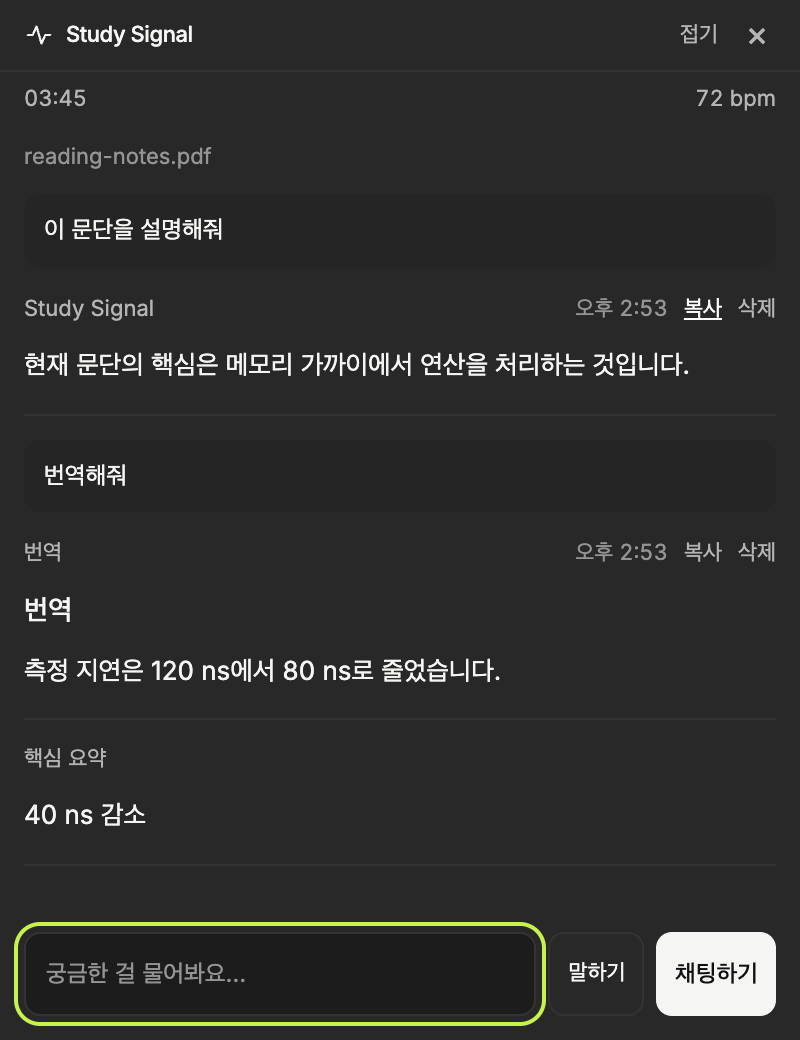
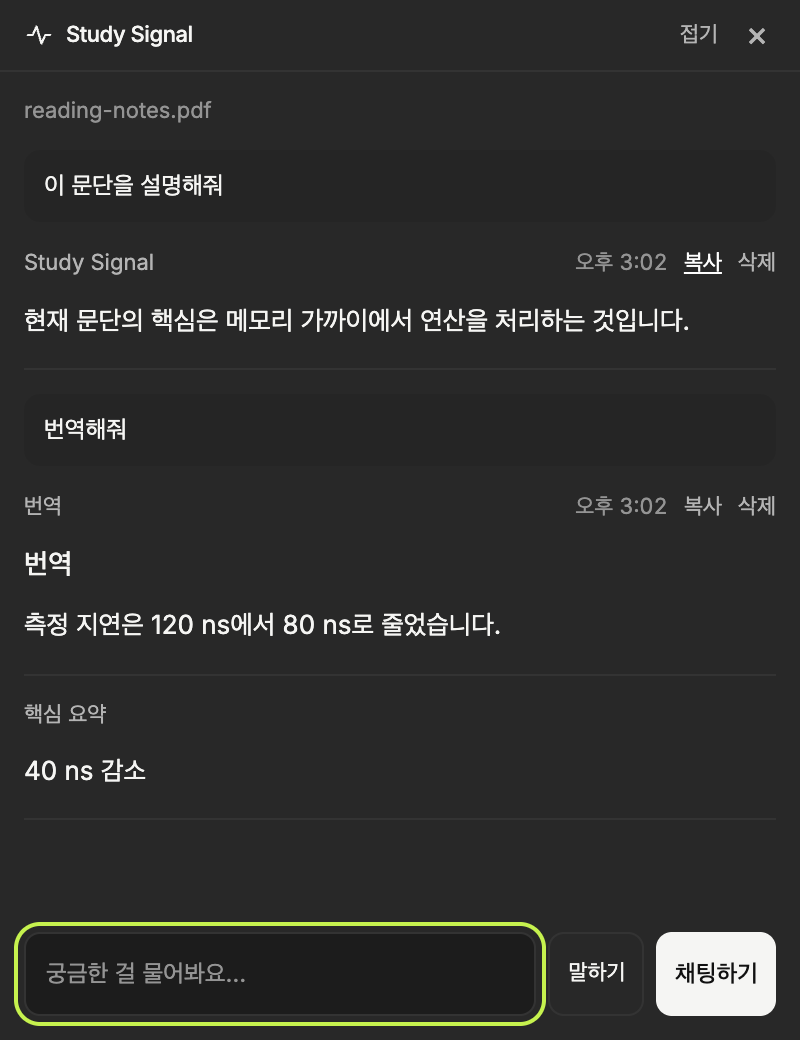
fix: show gaze status beside study clock and remove chat metrics

diff --git a/overlay/index.html b/overlay/index.html
@@ -2,9 +2,9 @@
 <html lang="ko"><head><meta charset="utf-8"><meta name="viewport" content="width=device-width,initial-scale=1">
 <meta http-equiv="Content-Security-Policy" content="default-src 'self'; script-src 'self' 'wasm-unsafe-eval'; style-src 'self'; font-src 'self'; img-src 'self' data: blob:; media-src 'self' blob:; connect-src 'self'; object-src 'none'; base-uri 'none'; form-action 'none'">
 <title>Study Signal</title><link rel="stylesheet" href="study-theme.css"><link rel="stylesheet" href="study.css"><link rel="stylesheet" href="study-select.css"></head><body>
-<header class="drag"><div class="brand"><svg viewBox="0 0 24 24" aria-hidden="true"><path d="M3 12h4l3-7 4 14 3-7h4"/></svg>Study Signal</div><span id="voice-indicator" hidden aria-live="polite">● 녹음 중</span><div class="mini-metrics"><span id="mini-clock">00:00</span><span id="mini-heart">— bpm</span></div><div class="window-controls"><button id="collapse" aria-label="접기 또는 펼치기">−</button><button id="close" aria-label="메뉴 막대로 숨기기">×</button></div></header>
+<header class="drag"><div class="brand"><svg viewBox="0 0 24 24" aria-hidden="true"><path d="M3 12h4l3-7 4 14 3-7h4"/></svg>Study Signal</div><span id="voice-indicator" hidden aria-live="polite">● 녹음 중</span><div class="mini-metrics"><span id="mini-clock">00:00</span><span id="mini-heart">— bpm</span><span id="mini-focus" class="focus-status" data-state="paused" aria-live="polite">학습 시작 대기</span></div><div class="window-controls"><button id="collapse" aria-label="접기 또는 펼치기">−</button><button id="close" aria-label="메뉴 막대로 숨기기">×</button></div></header>
 <main>
-<section class="session-top"><div><p id="timer-label">오늘의 학습</p><div class="session-metrics"><strong id="timer">00:00</strong><span id="session-heart" aria-label="실시간 심박수">— <small>bpm</small></span></div><span id="goal-display">작은 목표부터 시작해요</span></div><select id="minutes" aria-label="목표 학습 시간"><option value="20">20분</option><option value="30">30분</option><option value="45">45분</option></select></section>
+<section class="session-top"><div><p id="timer-label">오늘의 학습</p><div class="session-metrics"><strong id="timer">00:00</strong><div class="session-signals"><span id="session-heart" aria-label="실시간 심박수">— <small>bpm</small></span><span id="session-focus" class="focus-status" data-state="paused" aria-live="polite">학습 시작 대기</span></div></div><span id="goal-display">작은 목표부터 시작해요</span></div><select id="minutes" aria-label="목표 학습 시간"><option value="20">20분</option><option value="30">30분</option><option value="45">45분</option></select></section>
 <div id="study-view">
 <section id="setup" class="setup"><h1>공부할 자료를 준비해요</h1><label for="goal">오늘의 목표</label><input id="goal" placeholder="예: 읽은 내용을 내 말로 설명하기" maxlength="1000"><div class="material-label"><label>학습 자료</label><button id="material-add" type="button" class="link">파일 추가</button></div><ul id="material-list" class="material-list"></ul><p id="material-note" class="helper"></p><details id="material-text-settings"><summary>텍스트 직접 넣기</summary><textarea id="material" rows="4" aria-label="학습 자료 텍스트" placeholder="필요한 내용을 붙여넣어도 돼요."></textarea></details><button id="start" class="primary" disabled>앱 준비 중…</button><p class="helper">궁금할 땐 말하기를 누르고, 다 말하면 보내기를 눌러주세요.</p></section>
 <section id="focus-panel" class="focus-panel" aria-live="polite" data-state="unknown" hidden><div class="focus-heading"><span class="focus-light" aria-hidden="true"></span><strong id="focus-state">감지 준비 중</strong><button id="camera-toggle" class="link">감지 켜기</button></div><p id="focus-evidence">카메라로 화면 응시·이탈 방향을 확인해요.</p><span class="sr-only" id="gaze-label">카메라 꺼짐</span><i id="camera-dot" hidden></i><div id="focus-notice" hidden><p id="nag-text">시선이 화면 밖을 향하고 있어요.</p><button id="focus-grace">생각·필기 중 · 1분 유예</button><button id="focus-correction">오탐이야</button></div></section>

diff --git a/overlay/scratchpad.html b/overlay/scratchpad.html
@@ -1,1 +1,1 @@
-<!doctype html><html lang="ko"><head><meta charset="utf-8"><meta name="viewport" content="width=device-width,initial-scale=1"><meta http-equiv="Content-Security-Policy" content="default-src 'self'; script-src 'self'; style-src 'self'; font-src 'self'; img-src 'self'; object-src 'none'; base-uri 'none'; form-action 'none'"><title>Study Signal · 채팅</title><link rel="stylesheet" href="study-theme.css"><link rel="stylesheet" href="scratchpad.css"></head><body data-expanded="false"><header class="drag"><div class="brand"><svg viewBox="0 0 24 24" aria-hidden="true"><path d="M3 12h4l3-7 4 14 3-7h4"/></svg>Study Signal</div><div class="window-controls"><button id="toggle" hidden aria-label="대화 펼치기" aria-expanded="false">대화</button><button id="close" aria-label="채팅 숨기기">×</button></div></header><div class="chat-metrics" aria-label="학습 시간과 심박수"><span id="chat-clock">00:00</span><span id="chat-heart">— bpm</span></div><main class="pad"><section id="conversation" hidden><p id="study-context"></p><div id="entries" class="entries" aria-live="polite"></div><p id="empty" hidden>질문하면 여기에 답변이 나타나요.</p></section><form id="composer" class="pad-composer"><label for="draft" class="sr-only">질문 입력</label><textarea id="draft" rows="1" placeholder="궁금한 걸 물어봐요…" maxlength="4000"></textarea><button id="voice-question" type="button" aria-label="음성으로 질문">말하기</button><button id="add" type="submit" class="primary">채팅하기</button></form><p id="error" class="error" role="alert" hidden></p></main><script type="module" src="scratchpad.mjs"></script></body></html>
+<!doctype html><html lang="ko"><head><meta charset="utf-8"><meta name="viewport" content="width=device-width,initial-scale=1"><meta http-equiv="Content-Security-Policy" content="default-src 'self'; script-src 'self'; style-src 'self'; font-src 'self'; img-src 'self'; object-src 'none'; base-uri 'none'; form-action 'none'"><title>Study Signal · 채팅</title><link rel="stylesheet" href="study-theme.css"><link rel="stylesheet" href="scratchpad.css"></head><body data-expanded="false"><header class="drag"><div class="brand"><svg viewBox="0 0 24 24" aria-hidden="true"><path d="M3 12h4l3-7 4 14 3-7h4"/></svg>Study Signal</div><div class="window-controls"><button id="toggle" hidden aria-label="대화 펼치기" aria-expanded="false">대화</button><button id="close" aria-label="채팅 숨기기">×</button></div></header><main class="pad"><section id="conversation" hidden><p id="study-context"></p><div id="entries" class="entries" aria-live="polite"></div><p id="empty" hidden>질문하면 여기에 답변이 나타나요.</p></section><form id="composer" class="pad-composer"><label for="draft" class="sr-only">질문 입력</label><textarea id="draft" rows="1" placeholder="궁금한 걸 물어봐요…" maxlength="4000"></textarea><button id="voice-question" type="button" aria-label="음성으로 질문">말하기</button><button id="add" type="submit" class="primary">채팅하기</button></form><p id="error" class="error" role="alert" hidden></p></main><script type="module" src="scratchpad.mjs"></script></body></html>

diff --git a/overlay/scratchpad.css b/overlay/scratchpad.css
@@ -1,3 +1,3 @@
 body{display:flex;flex-direction:column}.drag{height:36px;flex:none;padding:0 9px 0 12px}.brand{font-size:11px;gap:6px}.brand svg{width:15px;height:15px}.window-controls{align-items:center}.window-controls button{font-size:17px;width:25px;height:25px}#toggle{width:auto;padding:0 7px;font-size:11px;border-radius:6px}.pad{display:flex;flex:1;min-height:0;flex-direction:column;padding:10px 12px 12px}#conversation{display:flex;flex:1;min-height:0;flex-direction:column}#study-context{font-size:11px;color:var(--faint);padding:1px 0 10px;white-space:nowrap;overflow:hidden;text-overflow:ellipsis}.entries{overflow:auto;flex:1;min-height:0;scrollbar-width:thin;scrollbar-color:#444 transparent}.entry{padding:12px 0;border-bottom:1px solid var(--line)}.entry:first-child{padding-top:0}.question{margin-bottom:12px;padding:8px 10px;border-radius:8px;background:var(--raised);font-size:12px;line-height:1.7;white-space:pre-wrap;overflow-wrap:anywhere}.entry-head{display:flex;align-items:center;gap:8px;margin-bottom:8px;font-size:11px;color:var(--faint)}.tag{color:var(--muted)}.entry-head time{margin-left:auto;font-variant-numeric:tabular-nums}.entry-head button{font-size:11px;color:var(--muted);padding:0}.entry-head button:hover{text-decoration:underline}.entry h2{font-size:14px;margin-bottom:8px}.body,.summary{white-space:pre-wrap;overflow-wrap:anywhere;font-size:13px;line-height:1.8}.summary{border-top:1px solid var(--line);padding-top:10px;margin-top:12px}.summary-label{display:block;font-size:11px;color:var(--muted);margin-bottom:6px}.source{font-size:11px;line-height:1.65;color:var(--faint);margin-top:10px}.entry.pending .body{color:var(--muted)}.entry.error .body,.error{color:var(--error)}.pad-composer{display:flex;align-items:flex-end;gap:8px;flex:none;margin:0}body[data-expanded=true] .pad-composer{padding-top:12px}textarea{font:inherit;font-size:12px;line-height:1.6;background:var(--surface);border:1px solid var(--line);border-radius:8px;color:var(--ink);resize:none;min-height:42px;max-height:96px;height:42px;min-width:0;flex:1;width:100%;padding:10px}textarea::placeholder{color:var(--faint)}#add{height:42px;padding:0 12px;border-radius:8px;font-size:12px;white-space:nowrap;flex:none}.error{font-size:11px;line-height:1.6;margin-top:8px;overflow-wrap:anywhere}.sr-only{position:absolute;width:1px;height:1px;overflow:hidden;clip:rect(0,0,0,0)}@media(prefers-reduced-motion:no-preference){button{transition:background .15s,transform .15s}button:active{transform:translateY(1px)}}
 
-.chat-metrics{display:flex;justify-content:space-between;gap:12px;padding:5px 12px 0;font-size:11px;font-variant-numeric:tabular-nums;color:var(--muted)}#voice-question{height:42px;min-width:48px;border:1px solid var(--line);border-radius:8px;padding:0 8px;font-size:11px;white-space:nowrap;flex:none}.pad-composer{gap:6px}#add{padding:0 9px}#voice-question:disabled{opacity:.55}
+#voice-question{height:42px;min-width:48px;border:1px solid var(--line);border-radius:8px;padding:0 8px;font-size:11px;white-space:nowrap;flex:none}.pad-composer{gap:6px}#add{padding:0 9px}#voice-question:disabled{opacity:.55}

diff --git a/overlay/study.css b/overlay/study.css
@@ -25,3 +25,6 @@
 .session-metrics{display:flex;align-items:center;gap:18px}.session-metrics #session-heart{font-size:18px;font-weight:400;color:var(--muted);font-variant-numeric:tabular-nums}.mini-metrics{display:flex;align-items:center;gap:12px}#mini-heart{display:none;font-size:12px;color:var(--muted);font-variant-numeric:tabular-nums}body.collapsed #mini-heart{display:block}#voice-talk{margin-top:12px;min-width:116px}#voice-talk:not(:disabled){white-space:nowrap}
 
 body.collapsed .drag{padding:0 8px;gap:6px}body.collapsed .brand{font-size:11px;gap:4px}body.collapsed .brand svg{width:16px;height:16px}body.collapsed .window-controls button{width:24px;height:28px}body.collapsed .mini-metrics{gap:7px}body.collapsed #mini-clock{font-size:15px}body.collapsed #mini-heart{font-size:10px}body.collapsed #voice-indicator{font-size:9px;white-space:nowrap}
+
+/* Status stays with the study clock and pulse, including the compact bar. */
+.session-top>div{min-width:0}.session-top>.study-select{flex:none}.session-metrics{gap:14px;flex-wrap:wrap}.session-signals{display:flex;flex-direction:column;align-items:flex-start;gap:4px}.focus-status{display:inline-flex;align-items:center;gap:5px;white-space:nowrap;font-size:11px;line-height:1.4;font-weight:400;color:var(--muted)}.focus-status:before{content:"";width:5px;height:5px;flex:none;border-radius:50%;background:var(--faint)}.focus-status[data-state=attending]:before{background:var(--accent)}.focus-status[data-state=away_pending]:before{background:#e6c480}.focus-status[data-state=away]{color:var(--error)}.focus-status[data-state=away]:before{background:var(--error)}#mini-focus{display:none}body.collapsed #mini-focus{display:inline-flex}body.collapsed .brand{font-size:0;gap:0}body.collapsed .mini-metrics{flex:1;justify-content:center;gap:8px;min-width:0}body.collapsed:has(#voice-indicator:not([hidden])) .brand{display:none}

diff --git a/tests/scratchpad_ui_qa.py b/tests/scratchpad_ui_qa.py
@@ -10,9 +10,9 @@ class Handler(SimpleHTTPRequestHandler):
 server=ThreadingHTTPServer(('127.0.0.1',0),partial(Handler,directory=str(root)));threading.Thread(target=server.serve_forever,daemon=True).start()
 with sync_playwright() as p:
  browser=p.chromium.launch(headless=True,executable_path='/Applications/Google Chrome.app/Contents/MacOS/Google Chrome')
- page=browser.new_page(viewport={'width':340,'height':148},device_scale_factor=2);errors=[];page.on('pageerror',lambda e:errors.append(str(e)))
+ page=browser.new_page(viewport={'width':340,'height':116},device_scale_factor=2);errors=[];page.on('pageerror',lambda e:errors.append(str(e)))
  page.add_init_script('''
- window.padActions=[];window.padState=JSON.parse(localStorage.getItem('pad-fixture')||'null')||{entries:[],draft:'',pinned:true,expanded:false,busy:false,voice:{phase:'idle'},metrics:{clock:'03:45',bpm:72},context:{materials:['reading-notes.pdf'],has_material:true}};
+ window.padActions=[];window.padState=JSON.parse(localStorage.getItem('pad-fixture')||'null')||{entries:[],draft:'',pinned:true,expanded:false,busy:false,voice:{phase:'idle'},context:{materials:['reading-notes.pdf'],has_material:true}};
  window.padState.expanded=false;window.padState.busy=false;
  window.emitPad=()=>{localStorage.setItem('pad-fixture',JSON.stringify(window.padState));window.receivePad(window.padState);};
  window.scratchpadBridge={onState:cb=>window.receivePad=cb,action:async(name,value)=>{window.padActions.push({name,value});let s=window.padState;
@@ -27,7 +27,7 @@ with sync_playwright() as p:
  page.goto(f'http://127.0.0.1:{server.server_port}/overlay/scratchpad.html')
  page.locator('#draft').wait_for();assert page.locator('#conversation').is_hidden();assert page.locator('#toggle').is_hidden();assert page.locator('#add').inner_text()=='채팅하기'
  assert page.locator('#pin,input[type=file]').count()==0
- assert page.locator('#chat-clock').inner_text()=='03:45' and page.locator('#chat-heart').inner_text()=='72 bpm'
+ assert page.locator('.chat-metrics,#chat-clock,#chat-heart,.focus-status').count()==0
  page.locator('#voice-question').click();assert page.locator('#voice-question').inner_text()=='보내기';page.locator('#voice-question').click();assert page.locator('#voice-question').is_disabled()
  page.evaluate("()=>{window.padState.voice={phase:'idle'};window.emitPad();}")
  assert page.evaluate('document.documentElement.scrollWidth<=innerWidth&&document.documentElement.scrollHeight<=innerHeight')
@@ -38,7 +38,7 @@ with sync_playwright() as p:
  page.evaluate("()=>{Object.assign(window.padState.entries.at(-1),{kind:'answer',body:'현재 문단의 핵심은 메모리 가까이에서 연산을 처리하는 것입니다.',status:'ready'});window.padState.busy=false;window.emitPad();}")
  page.locator('#add').wait_for(state='visible');assert not page.locator('#add').is_disabled()
  assert 'reading-notes.pdf' in page.locator('#study-context').inner_text()
- page.locator('#toggle').click();page.set_viewport_size({'width':340,'height':148});assert page.locator('#conversation').is_hidden();assert page.locator('#toggle').inner_text()=='대화'
+ page.locator('#toggle').click();page.set_viewport_size({'width':340,'height':116});assert page.locator('#conversation').is_hidden();assert page.locator('#toggle').inner_text()=='대화'
  page.locator('#toggle').click();page.set_viewport_size({'width':400,'height':520});assert page.locator('.entry').count()==1
  page.locator('.entry').get_by_role('button',name='복사').click();assert page.evaluate("window.padActions.at(-1).name")=='copy'
  page.locator('#draft').fill('다음 질문 초안');page.wait_for_timeout(500);page.reload();assert page.locator('#conversation').is_hidden();assert page.locator('#draft').input_value()=='다음 질문 초안'
@@ -46,16 +46,16 @@ with sync_playwright() as p:
  page.evaluate("()=>{Object.assign(window.padState.entries.at(-1),{kind:'translation',title:'번역',body:'측정 지연은 120 ns에서 80 ns로 줄었습니다.',summary:'40 ns 감소',status:'ready'});window.padState.busy=false;window.emitPad();}")
  assert '40 ns' in page.locator('.summary').inner_text()
  page.screenshot(path=str(root/'docs/qa/chat-expanded.png'),omit_background=True)
- page.locator('#toggle').click();page.set_viewport_size({'width':340,'height':148})
+ page.locator('#toggle').click();page.set_viewport_size({'width':340,'height':116})
  page.evaluate("()=>{window.padState.entries.push({id:'voice',kind:'request',body:'듣고 있어요…',status:'pending',created_at:new Date().toISOString()});window.padState.expanded=true;window.padState.busy=true;window.emitPad();}")
  page.set_viewport_size({'width':400,'height':520});assert page.locator('.entry.pending').is_visible();assert page.locator('#conversation').is_visible()
  page.evaluate("()=>{Object.assign(window.padState.entries.at(-1),{kind:'answer',question:'음성 질문',body:'<img src=x onerror=alert(1)>',status:'ready'});window.padState.busy=false;window.emitPad();}");assert page.locator('img').count()==0;assert '<img' in page.locator('.body').last.inner_text()
  page.locator('.entry').last.get_by_role('button',name='삭제').click();assert page.locator('.entry').count()==2
  page.locator('#toggle').click();page.evaluate('window.failQuery=true');page.locator('#draft').fill('실패 재시도 질문');page.locator('#add').click();page.locator('#error').wait_for(state='visible');assert page.locator('#conversation').is_visible();assert not page.locator('#add').is_disabled()
- for width,height in [(300,148),(340,148),(400,520)]:
+ for width,height in [(300,116),(340,116),(400,520)]:
   page.set_viewport_size({'width':width,'height':height});assert page.evaluate('document.documentElement.scrollWidth<=innerWidth')
  assert not errors,errors
- passed=['failed query expands error and permits retry','340x148 compact chat with clock and heart rate','no empty heading or pin/upload controls','typed query expands','question displayed with pending reply','pending disables duplicate submit','answer preserves material context','collapse retains conversation','history reopens','copy action','draft survives restart in compact mode','Enter sends question','translation and summary together','voice request expands','untrusted response stays text','delete completed answer','300/340/400px no horizontal overflow']
+ passed=['failed query expands error and permits retry','340x116 compact chat without study status','no empty heading or pin/upload controls','typed query expands','question displayed with pending reply','pending disables duplicate submit','answer preserves material context','collapse retains conversation','history reopens','copy action','draft survives restart in compact mode','Enter sends question','translation and summary together','voice request expands','untrusted response stays text','delete completed answer','300/340/400px no horizontal overflow']
  (root/'docs/qa/scratchpad-ui.json').write_text(json.dumps({'passed':passed,'page_errors':errors,'environment':'headless Chrome; owned IPC fixture; no external model'},ensure_ascii=False,indent=2)+'\n');print(f'Compact chat UI: {len(passed)} scenarios passed')
  browser.close()
 server.shutdown();server.server_close()

diff --git a/tests/native_scratchpad_qa.py b/tests/native_scratchpad_qa.py
@@ -38,11 +38,12 @@ try:
    page.wait_for_timeout(100)
   if not pad:raise RuntimeError('Scratchpad renderer missing')
   bounds=page.evaluate("window.studyBridge.window('overlay-bounds')")
-  assert any(b['width']==340 and b['height']==148 for b in bounds),bounds
+  assert any(b['width']==340 and b['height']==116 for b in bounds),bounds
   assert pad.locator('#conversation').is_hidden()
   assert page.locator('#voice-target,#voice-enable,#voice-shortcut').count()==0
   assert not page.locator('#read-answer').is_checked()
-  assert pad.locator('#chat-clock').inner_text() and 'bpm' in pad.locator('#chat-heart').inner_text()
+  assert pad.locator('#chat-clock,#chat-heart,.focus-status').count()==0
+  assert page.locator('#session-focus').inner_text()
   # A real pad query reaches the main study controller, which gates screen upload on consent.
   pad.locator('#draft').fill('현재 화면을 설명해줘');pad.locator('#add').click()
   pad.locator('.entry.error').wait_for(timeout=10000)
@@ -57,11 +58,11 @@ try:
   pad.locator('.entry.pending').wait_for()
   assert '듣고' in pad.locator('.entry.pending .body').inner_text()
   bounds=page.evaluate("window.studyBridge.window('overlay-bounds')")
-  assert any(b['width']==400 and b['height']==560 for b in bounds),bounds
+  assert any(b['width']==400 and b['height']==520 for b in bounds),bounds
   page.evaluate("async id=>{await window.studyBridge.window('scratchpad-complete',{id,question:'이 문단 번역해줘',message:{content:'캐시는 반복적인 메모리 접근을 줄입니다.',artifact:{kind:'translation',title:'작성된 예제 번역',summary:'현재 보이는 문단 기준',source_note:'QA authored fixture'}}});}",request)
   pad.locator('.summary').wait_for();assert '반복적인' in pad.locator('.body').last.inner_text()
   pad.locator('#toggle').click();pad.locator('#conversation').wait_for(state='hidden')
-  bounds=page.evaluate("window.studyBridge.window('overlay-bounds')");assert any(b['height']==148 and b['width']==340 for b in bounds)
+  bounds=page.evaluate("window.studyBridge.window('overlay-bounds')");assert any(b['height']==116 and b['width']==340 for b in bounds)
   pad.locator('#toggle').click();pad.locator('.summary').wait_for()
   stored=json.loads((qa/'scratchpad/pad.json').read_text());assert len(stored['entries'])==2 and stored['entries'][-1]['status']=='ready'
   page.evaluate("window.studyBridge.window('scratchpad-show')");pad.reload();pad.locator('#conversation').wait_for(state='hidden');pad.locator('#toggle').click();pad.locator('.summary').wait_for();assert pad.locator('.entry').count()==2
@@ -73,7 +74,7 @@ try:
   page.evaluate("window.studyBridge.window('bubble-clear-nag')")
   metadata=[json.loads(line) for line in (root/'.build/native-scratchpad.log').read_text().splitlines() if line.startswith('{') and '"component":"voice-input"' in line]
   assert metadata and metadata[-1]['hotkey'] is False
-  report={'environment':'native Electron; isolated pad; authored text; no external request','packaged':args.executable.name!='Electron','compact_bounds':{'width':340,'height':148},'expanded_bounds':{'width':400,'height':560},'typed_query_reaches_consent_gate':True,'voice_request_expands':True,'collapse_retains_history':True,'reload_restores_compact':True,'shared_opacity':True,'physical_microphone_tested':False,'click_only_voice':True,'voice_hotkey_registered':False,'automatic_screenshot':True,'speech_default_off':True,'heart_and_clock_visible':True,'warning_dialog_does_not_overlap_chat':True}
+  report={'environment':'native Electron; isolated pad; authored text; no external request','packaged':args.executable.name!='Electron','compact_bounds':{'width':340,'height':116},'expanded_bounds':{'width':400,'height':520},'typed_query_reaches_consent_gate':True,'voice_request_expands':True,'collapse_retains_history':True,'reload_restores_compact':True,'shared_opacity':True,'physical_microphone_tested':False,'click_only_voice':True,'voice_hotkey_registered':False,'automatic_screenshot':True,'speech_default_off':True,'study_status_in_main_only':True,'warning_dialog_does_not_overlap_chat':True}
   (root/'docs/qa/native-scratchpad.json').write_text(json.dumps(report,ensure_ascii=False,indent=2)+'\n');print(json.dumps(report,ensure_ascii=False))
 finally:
  if process.poll() is None:os.killpg(process.pid,signal.SIGTERM)

diff --git a/tests/browser_ui_qa.py b/tests/browser_ui_qa.py
@@ -88,8 +88,12 @@ with sync_playwright() as p:
  settings('voice-settings');page.locator('#read-answer').uncheck();settings('focus-settings');page.locator('#nag-mute').check();study()
  # Only direction evidence, no pixel coordinates or validated calibration.
  page.evaluate("()=>{const at=performance.now()+22000;for(let t=at-21000;t<=at;t+=100)window.injectGaze({at_ms:t,validated:false,validity:'unknown',pose_ok:false,presence:{ready:true,state:'away',reason:'direction_away'}});}")
- assert page.locator('#focus-notice').is_visible();assert '화면 이탈' in page.locator('#focus-state').inner_text()
+ assert page.locator('#focus-notice').is_visible();assert '화면 이탈' in page.locator('#focus-state').inner_text();assert page.locator('#session-focus').inner_text()=='시선 이탈 중';assert page.locator('#mini-focus').inner_text()=='시선 이탈 중';assert page.locator('#session-focus').get_attribute('data-state')=='away'
  assert page.evaluate("window.actions.some(a=>a.action==='bubble-update'&&a.data.kind==='nag'&&a.data.show)")
+ page.screenshot(path=str(root/'docs/qa/study-away-status.png'),omit_background=True)
+ page.locator('#collapse').click();page.set_viewport_size(dict(width=320,height=64));assert page.locator('#mini-focus').is_visible();assert page.evaluate('document.documentElement.scrollWidth')<=320
+ page.screenshot(path=str(root/'docs/qa/study-away-compact.png'),omit_background=True)
+ page.locator('#collapse').click();page.set_viewport_size(dict(width=440,height=820))
  page.locator('#focus-correction').click();assert page.locator('#focus-notice').is_hidden()
  settings('voice-settings');page.locator('#voice-consent').check();study()
  start_voice();page.wait_for_function("() => document.getElementById('voice-status').textContent.startsWith('녹음 중')")
@@ -98,8 +102,7 @@ with sync_playwright() as p:
  page.wait_for_timeout(1200);release_voice();page.wait_for_function("() => document.getElementById('chat').textContent.includes('CENT는 CXL')")
  audio=page.evaluate("window.actions.find(a=>a.action==='voice-submit').data");assert audio['id']==1 and audio['speech_detected'] and audio['audio'].startswith('GkXf')
  assert not page.evaluate("window.actions.some(a=>a.action==='bubble-update'&&['answer','voice'].includes(a.data.kind))")
- assert page.locator('#session-heart').inner_text()=='72 bpm'
- assert page.evaluate("window.actions.some(a=>a.action==='scratchpad-metrics'&&a.data.bpm===72)")
+ assert page.locator('#session-heart').inner_text()=='72 bpm';assert not page.evaluate("window.actions.some(a=>a.action==='scratchpad-metrics')")
  assert page.evaluate('window.speechRequests.length')==0
  assert page.evaluate("window.padEntries[0].status==='ready'")
  start_voice();page.locator('#voice-cancel').wait_for(state='visible');page.locator('#voice-cancel').click();page.wait_for_timeout(150)

diff --git a/docs/macos.md b/docs/macos.md
@@ -1,6 +1,6 @@
-# Mac에서 사용하기 · v0.12.0
+# Mac에서 사용하기 · v0.12.1
 
-`학습 보조 실행.command`를 실행하면 메뉴 막대와 좌상단 학습 창이 열린다. 질문·답변은 작은 채팅창에 모으고, 이탈 알림은 별도 빨간 다이얼로그로 나타난다. Python 3.13+/Node.js 22+, 기존 OpenRouter 키가 필요하다. 기본 실행에는 신경망 모델을 다운로드하지 않는다. 소스 실행과 v0.12.0 Apple Silicon DMG 개발 설치판을 제공한다. Apple Developer ID 서명·공증은 포함하지 않는다.
+`학습 보조 실행.command`를 실행하면 메뉴 막대와 좌상단 학습 창이 열린다. 질문·답변은 작은 채팅창에 모으고, 이탈 알림은 별도 빨간 다이얼로그로 나타난다. Python 3.13+/Node.js 22+, 기존 OpenRouter 키가 필요하다. 기본 실행에는 신경망 모델을 다운로드하지 않는다. 소스 실행과 v0.12.1 Apple Silicon DMG 개발 설치판을 제공한다. Apple Developer ID 서명·공증은 포함하지 않는다.
 
 ## 메뉴 막대
 
@@ -22,9 +22,9 @@ SVG 원본: `overlay/assets/StudySignalTemplate.svg`. macOS 표시에는 투명 
 
 음성 전역 단축키와 네이티브 키 후킹 SDK를 배포판에서 제거했다. 손쉬운 사용·입력 모니터링 권한은 음성 질문에 필요하지 않다. 최대 20초 제한은 자동 전송이 아니라 녹음 폐기다. 취소·권한 철회 때도 폐기한다. 얼굴 영상·녹음·화면은 기본 기록에 보관하지 않는다.
 
-## v0.12.0 DMG 설치판
+## v0.12.1 DMG 설치판
 
-`Study-Signal-0.12.0-arm64.dmg`는 Apple Silicon(M1 이상), macOS 15 이상용이다. DMG를 열어 Study Signal.app을 Applications로 옮겨 실행한다. Electron·가벼운 Python 백엔드를 포함해 Node.js/Homebrew/Python을 별도로 설치하지 않는다.
+`Study-Signal-0.12.1-arm64.dmg`는 Apple Silicon(M1 이상), macOS 15 이상용이다. DMG를 열어 Study Signal.app을 Applications로 옮겨 실행한다. Electron·가벼운 Python 백엔드를 포함해 Node.js/Homebrew/Python을 별도로 설치하지 않는다.
 
 설정은 **⌘,**(앱에 포커스가 있을 때) 또는 메뉴 막대 아이콘 → 설정에서 연다. OpenRouter 키를 입력하고 ‘저장 후 앱 다시 시작’을 누른다. 키 입력칸을 비우면 기존 키를 유지한다. 진행 중인 학습은 종료한 뒤 저장한다.
 
@@ -47,7 +47,7 @@ SVG 원본: `overlay/assets/StudySignalTemplate.svg`. macOS 표시에는 투명 
 
 [최종 시험 결과와 실기기 미검증 항목](qa-v08.md).
 
-## 자연스러운 음성 · v0.12.0
+## 자연스러운 음성 · v0.12.1
 
 음성 읽기는 기본 꺼짐이다. 직접 켜면 OpenRouter의 Gemini TTS를 사용한다. 연결 키는 기존 키 그대로다. 설정 → 음성 질문에서 아오이데/코레/카론 중 선택하고 미리 듣는다. 답변과 잔소리에 같은 목소리를 사용한다. 글 답변을 먼저 표시하고 음성을 준비한다. 버블의 읽기 멈춤·새 질문·휴식·동의 해제로 준비/재생 중인 음성을 취소한다. 늦게 도착한 응답은 재생하지 않는다. 오류 때 기본 음성으로 몰래 전환하지 않으며 글 답변을 유지한다.
 
@@ -67,4 +67,4 @@ SVG 원본: `overlay/assets/StudySignalTemplate.svg`. macOS 표시에는 투명 
 
 ## 시간·심박 표시
 
-학습 창과 작은 채팅창에 경과 시간·최신 심박수를 함께 표시한다. 기존 로컬 수집기 자동 연결 설정을 유지한다. 20초 넘게 갱신되지 않거나 연결이 끊기면 숫자 대신 — bpm을 표시한다. 장치 출처가 없는 기존 수집값은 collector로 구분한다.
+학습 창의 시간·심박수 옆에 시선 상태를 표시한다. 창을 접어도 같은 상태가 보인다. 채팅창 위에는 상태를 표시하지 않는다. 기존 로컬 수집기 자동 연결 설정을 유지한다. 20초 넘게 갱신되지 않거나 연결이 끊기면 숫자 대신 — bpm을 표시한다. 장치 출처가 없는 기존 수집값은 collector로 구분한다.

diff --git a/README.md b/README.md
@@ -1,4 +1,4 @@
-# Study Signal v0.12.0 · 화면 번역과 스크래치패드
+# Study Signal v0.12.1 · 화면 번역과 스크래치패드
 
 좌상단 반투명 스크래치패드에 **화면 번역·요약·메모를 모읍니다**. 말하기 버튼으로 화면 내용을 질문하고 같은 채팅창에서 답변을 확인하며 **화면 응시·이탈 상태**를 확인합니다. 텍스트 질문과 음성 질문을 작은 좌상단 채팅창에서 이어갑니다. 메뉴 막대의 파형 시그널 아이콘으로 설정을 엽니다.
 
@@ -6,11 +6,11 @@
 
 논문이나 PDF를 화면에 열고, **말하기**를 누르고 “이거 한국어로 번역해줘”라고 말한 뒤 **보내기**를 누릅니다. **알겠습니다** 안내 뒤 질문 시작 시점의 화면 번역과 핵심 요약이 좌상단 패드에 들어갑니다. “이 부분 요약해줘”도 사용할 수 있습니다. 화면에 보이는 범위만 처리하며 논문 전체를 읽었다고 가정하지 않습니다.
 
-평소에는 좌상단의 작은 입력창과 **채팅하기·말하기** 버튼, 학습 경과 시간·심박수를 표시합니다. 질문을 입력해 보내거나 음성 녹음을 시작하면 대화가 펼쳐집니다. **접기**로 줄여도 기록은 유지되며 **대화**로 다시 열 수 있습니다. 텍스트 질문도 현재 화면과 학습 자료를 참고합니다. 파일은 학습 설정의 **파일 추가** 한 곳에서 관리합니다. [사용 방법과 검증](docs/scratchpad.md)
+평소에는 좌상단의 작은 입력창과 **채팅하기·말하기** 버튼으로 질문을 이어갑니다. 경과 시간·심박수·시선 상태는 학습 창에서 함께 표시합니다. 질문을 입력해 보내거나 음성 녹음을 시작하면 대화가 펼쳐집니다. **접기**로 줄여도 기록은 유지되며 **대화**로 다시 열 수 있습니다. 텍스트 질문도 현재 화면과 학습 자료를 참고합니다. 파일은 학습 설정의 **파일 추가** 한 곳에서 관리합니다. [사용 방법과 검증](docs/scratchpad.md)
 
 ## 실행과 사용
 
-Mac 설치판은 `Study-Signal-0.12.0-arm64.dmg`입니다. Apple Silicon·macOS 15 이상용으로 음성·번역용 기본 런타임을 포함하며 시선 모델과 PyTorch는 포함하지 않습니다. 기본 DMG는 약 168 MB이며 시선 기능은 나중에 선택 설치합니다. DMG의 앱을 Applications로 옮겨 실행하고, 메뉴 막대 아이콘 또는 ⌘,에서 API 키를 입력합니다. 설정·보정·기록은 앱 밖의 Application Support에 유지합니다. Apple 공증 전의 개발 빌드입니다. 자세한 내용은 [Mac 설치 안내](docs/macos.md)를 보세요.
+Mac 설치판은 `Study-Signal-0.12.1-arm64.dmg`입니다. Apple Silicon·macOS 15 이상용으로 음성·번역용 기본 런타임을 포함하며 시선 모델과 PyTorch는 포함하지 않습니다. 기본 DMG는 약 168 MB이며 시선 기능은 나중에 선택 설치합니다. DMG의 앱을 Applications로 옮겨 실행하고, 메뉴 막대 아이콘 또는 ⌘,에서 API 키를 입력합니다. 설정·보정·기록은 앱 밖의 Application Support에 유지합니다. Apple 공증 전의 개발 빌드입니다. 자세한 내용은 [Mac 설치 안내](docs/macos.md)를 보세요.
 
 아래는 소스에서 실행하는 방법입니다.
 

diff --git a/docs/scratchpad.md b/docs/scratchpad.md
@@ -1,10 +1,10 @@
-# 작은 채팅창 · v0.12.0
+# 작은 채팅창 · v0.12.1
 
-평소에는 340×148 DIP의 반투명 창에 경과 시간·심박수, 질문 입력칸과 채팅하기·말하기 버튼을 둔다. 텍스트 질문은 버튼 또는 Enter로 보낸다. Shift+Enter는 줄바꿈이다. 음성은 말하기를 클릭해 시작하고 보내기를 클릭해 전송한다. 음성 전역 단축키는 제거했다.
+평소에는 340×116 DIP의 반투명 창에 질문 입력칸과 채팅하기·말하기 버튼을 둔다. 시간·심박수·시선 상태는 별도 학습 창에 모으며 채팅 위에는 표시하지 않는다. 텍스트 질문은 버튼 또는 Enter로 보낸다. Shift+Enter는 줄바꿈이다. 음성은 말하기를 클릭해 시작하고 보내기를 클릭해 전송한다. 음성 전역 단축키는 제거했다.
 
-질문이나 녹음을 시작하면 400×560 DIP로 대화가 펼쳐진다. 입력 질문·진행 상태·답변·번역·요약은 이 창 한 곳에 표시한다. 접어도 기록은 유지되며 대화 버튼으로 다시 연다. 재실행하면 작은 입력창으로 시작한다. 파일은 학습 설정에서 추가한 자료를 재사용한다.
+질문이나 녹음을 시작하면 400×520 DIP로 대화가 펼쳐진다. 입력 질문·진행 상태·답변·번역·요약은 이 창 한 곳에 표시한다. 접어도 기록은 유지되며 대화 버튼으로 다시 연다. 재실행하면 작은 입력창으로 시작한다. 파일은 학습 설정에서 추가한 자료를 재사용한다.
 
-텍스트는 전송 시점, 음성은 녹음 시작 시점의 선택 모니터 전체 화면을 자동 첨부한다. 전송 동의가 없으면 업로드를 시작하지 않는다. 답변 읽기는 기본 꺼짐이다. 얼굴 영상·자동 캡처·녹음은 기본 기록에 저장하지 않는다. 질문·답변·초안은 기기에 보관한다. 심박·시간은 창 상태로만 전달하며 채팅 기록에 저장하지 않는다.
+텍스트는 전송 시점, 음성은 녹음 시작 시점의 선택 모니터 전체 화면을 자동 첨부한다. 전송 동의가 없으면 업로드를 시작하지 않는다. 답변 읽기는 기본 꺼짐이다. 얼굴 영상·자동 캡처·녹음은 기본 기록에 저장하지 않는다. 질문·답변·초안은 기기에 보관한다. 채팅창에는 심박·시간·시선 상태를 전달하거나 표시하지 않는다.
 
 집중 이탈은 별도 빨간 다이얼로그로 알린다. 채팅·목록 창을 피해서 배치하며 공간이 없으면 겹쳐 표시하지 않는다. 답변용 추가 버블은 만들지 않는다. macOS 기본 알림은 사용하지 않는다.
 

diff --git a/docs/development-plan.md b/docs/development-plan.md
@@ -1,10 +1,10 @@
-# Study Signal v0.12.0 구현 상태
+# Study Signal v0.12.1 구현 상태
 
 현재 중심 흐름은 **작은 채팅창 + 클릭 음성·텍스트 화면 질문**이다. 로컬/GPU 학습과 파인튜닝 API 조사는 사용자 요청으로 중단했다. 기본 추론은 기존 OpenRouter 계정을 사용한다. 실제 학습된 개인 모델은 없다.
 
 | 항목 | 결과 | 검증 |
 |---|---|---|
-| 스크래치패드 | 반투명 창, 초안·AI 결과·로컬 복원, 공통 디자인, 경과 시간·심박수 표시 | Node 저장·첨부·네이티브 경계, 채팅 UI 17개 |
+| 스크래치패드 | 반투명 창, 초안·AI 결과·로컬 복원, 공통 디자인, 상태 표시를 학습 창으로 통합 | Node 저장·첨부·네이티브 경계, 채팅 UI 17개 |
 | 음성 요청 | 클릭 말하기/보내기, 음성 단축키 제거, 시작 화면 고정, 전사 후 설명 | 실제 OpenRouter 합성 음성 경로 6.47초 |
 | 화면 번역 | 현재 화면 번역과 핵심 요약을 같은 블록에 기록, 출처 범위 표시 | 수치·단위 보존, 출력 계약·오류 시험 |
 | 기존 Mac 기능 | 메뉴 아이콘·별도 빨간 경고 다이얼로그·자료 관리·학습 목록 유지, TTS 기본 꺼짐 | 기존 회귀 시험 포함 |
@@ -15,4 +15,4 @@
 
 추가 완료: 기본 DMG에서 시선 모델/PyTorch/OpenCV 제거, 앱 설정의 시선 패키지 설치·검증·취소·진행률, 설치 전 카메라 자동 시작 차단. 실제 분리 패키지 설치와 MPS 준비, 기본판의 OpenRouter 음성 질의·화면/PDF 설명을 확인했다. [선택 설치](optional-gaze.md)
 
-추가 검증: v0.12.0 Node 75개·메인 UI 30개·채팅 UI 17개·경고 UI 8개, DMG에서 /Applications 실제 설치 및 네이티브 창 시험 통과. 음성/텍스트 화면 자동 첨부, 음성 읽기 기본 꺼짐, 음성 단축키 미등록, 채팅·경고창 비중첩을 확인했다. 실제 심박 상태와 설치 메타데이터는 qa/release-v012.json에 기록한다.
+추가 검증: v0.12.1 Node 75개·메인 UI 30개·채팅 UI 17개·경고 UI 8개, DMG에서 /Applications 실제 설치 및 네이티브 창 시험 통과. 음성/텍스트 화면 자동 첨부, 음성 읽기 기본 꺼짐, 음성 단축키 미등록, 채팅·경고창 비중첩을 확인했다. 실제 심박 상태와 설치 메타데이터는 qa/release-v0121.json에 기록한다.
